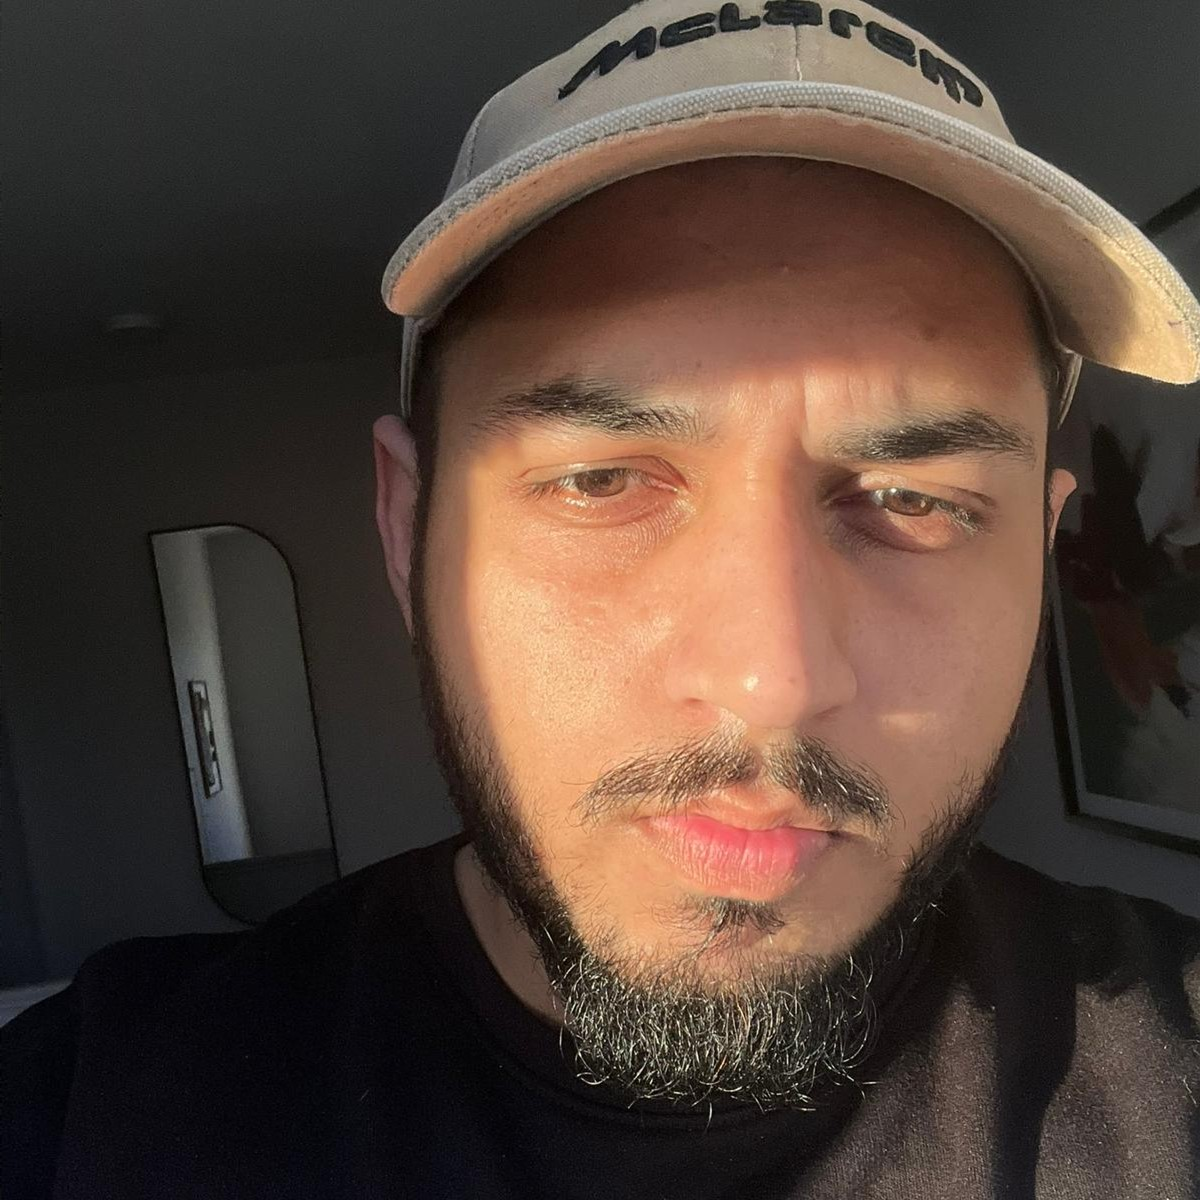
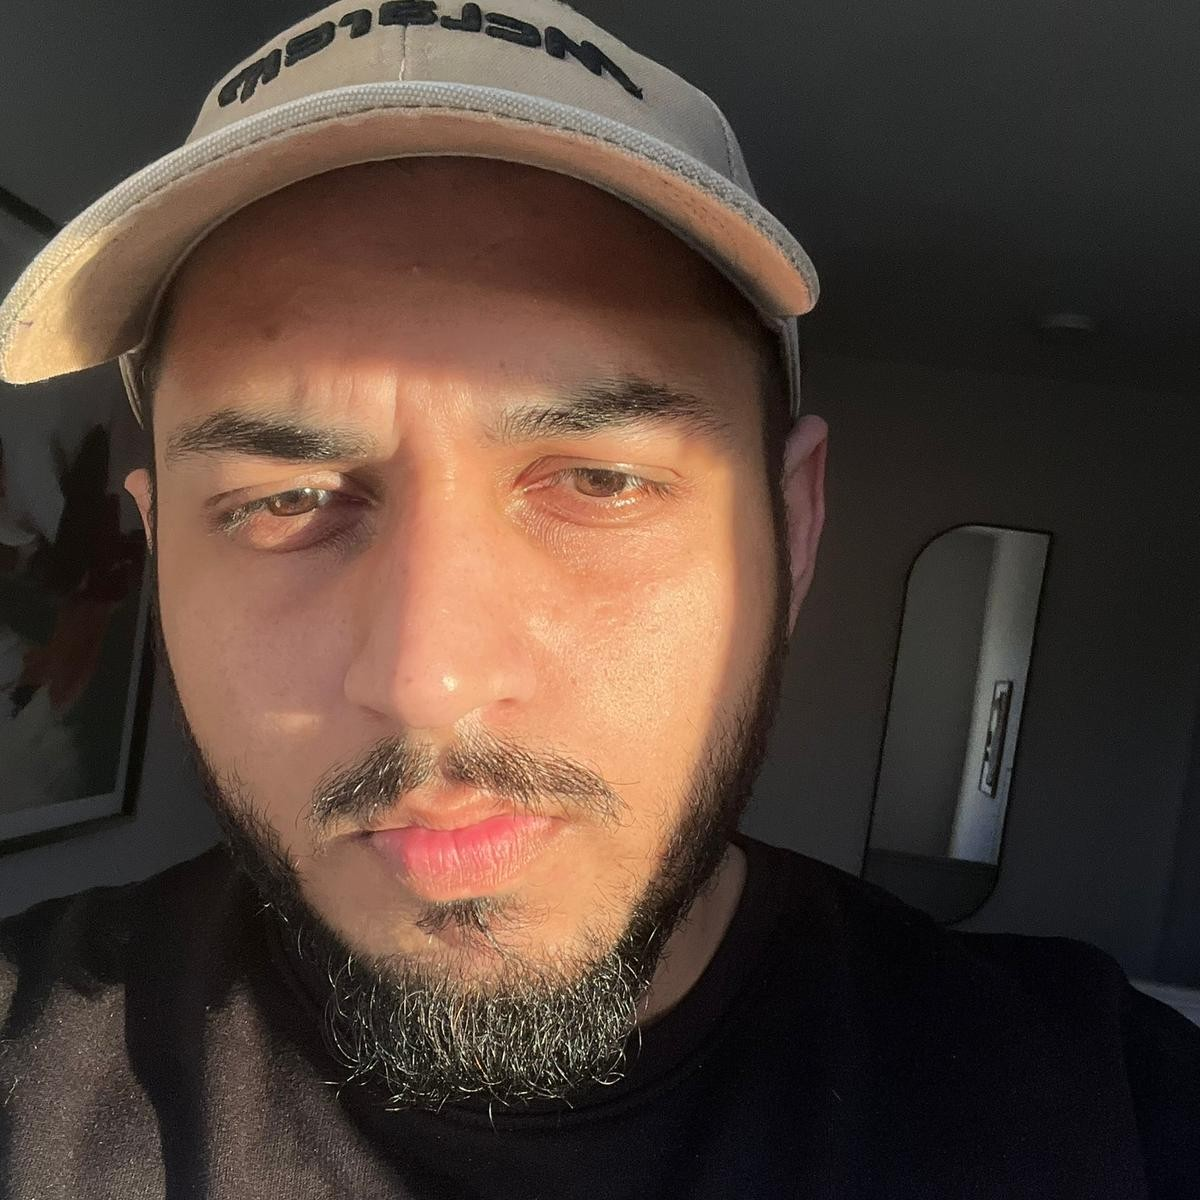
Round profile photo, keep original (un-flipped) orientation

diff --git a/index.html b/index.html
@@ -74,17 +74,15 @@
   .stat .l{font-size:12.5px;color:var(--mut);margin-top:4px}
   .s2{grid-column:span 2}.s3{grid-column:span 3}.s4{grid-column:span 4}.s6{grid-column:span 6}
   .intro{grid-column:span 4;background:linear-gradient(135deg,var(--glass2),var(--glass));justify-content:center}
-  .intro{padding:0;overflow:hidden}
-  .intro .row{display:flex;align-items:stretch;min-height:280px}
-  @media(max-width:560px){.intro .row{flex-direction:column}}
-  .intro .txt{padding:30px;display:flex;flex-direction:column;justify-content:center}
+  .intro .row{display:flex;gap:26px;align-items:center}
+  @media(max-width:520px){.intro .row{flex-direction:column;text-align:center}}
+  .intro .txt{display:flex;flex-direction:column}
   .intro h2{font-size:27px;font-weight:800;margin-bottom:8px;letter-spacing:-.02em}.intro p{color:var(--mut);font-size:15px;max-width:480px}
-  .avatar{flex:0 0 44%;position:relative;overflow:hidden;background:linear-gradient(135deg,var(--a3),var(--a2));min-height:280px}
-  @media(max-width:560px){.avatar{flex:0 0 auto;width:100%;height:300px}}
-  .avatar img{position:relative;z-index:2;width:100%;height:100%;object-fit:cover;display:block}
-  .avatar .ph{position:absolute;inset:0;z-index:1;display:grid;place-items:center;font-size:84px;font-weight:900;color:#03130c;letter-spacing:-3px}
-  .avatar::after{content:"";position:absolute;inset:0;background:linear-gradient(90deg,transparent 60%,var(--glass));pointer-events:none}
-  @media(max-width:560px){.avatar::after{background:linear-gradient(0deg,var(--glass),transparent 60%)}}
+  .avatar{flex:0 0 auto;width:172px;height:172px;border-radius:50%;position:relative;overflow:hidden;
+    background:linear-gradient(135deg,var(--a3),var(--a2));padding:4px;box-shadow:0 0 36px -8px var(--a3)}
+  .avatar img{position:relative;z-index:2;width:100%;height:100%;object-fit:cover;border-radius:50%;display:block}
+  .avatar .ph{position:absolute;inset:0;z-index:1;display:grid;place-items:center;font-size:58px;font-weight:900;color:#03130c;letter-spacing:-2px}
+  @media(max-width:520px){.intro .chips{justify-content:center}}
   .chips{display:flex;flex-wrap:wrap;gap:8px;margin-top:10px}
   .chip{font-size:12.5px;background:rgba(255,255,255,.05);border:1px solid var(--line);border-radius:9px;padding:7px 12px;color:var(--mut);transition:.2s}
   a.chip:hover{border-color:var(--a3);color:var(--a3);background:rgba(52,211,153,.08);transform:translateY(-2px)}